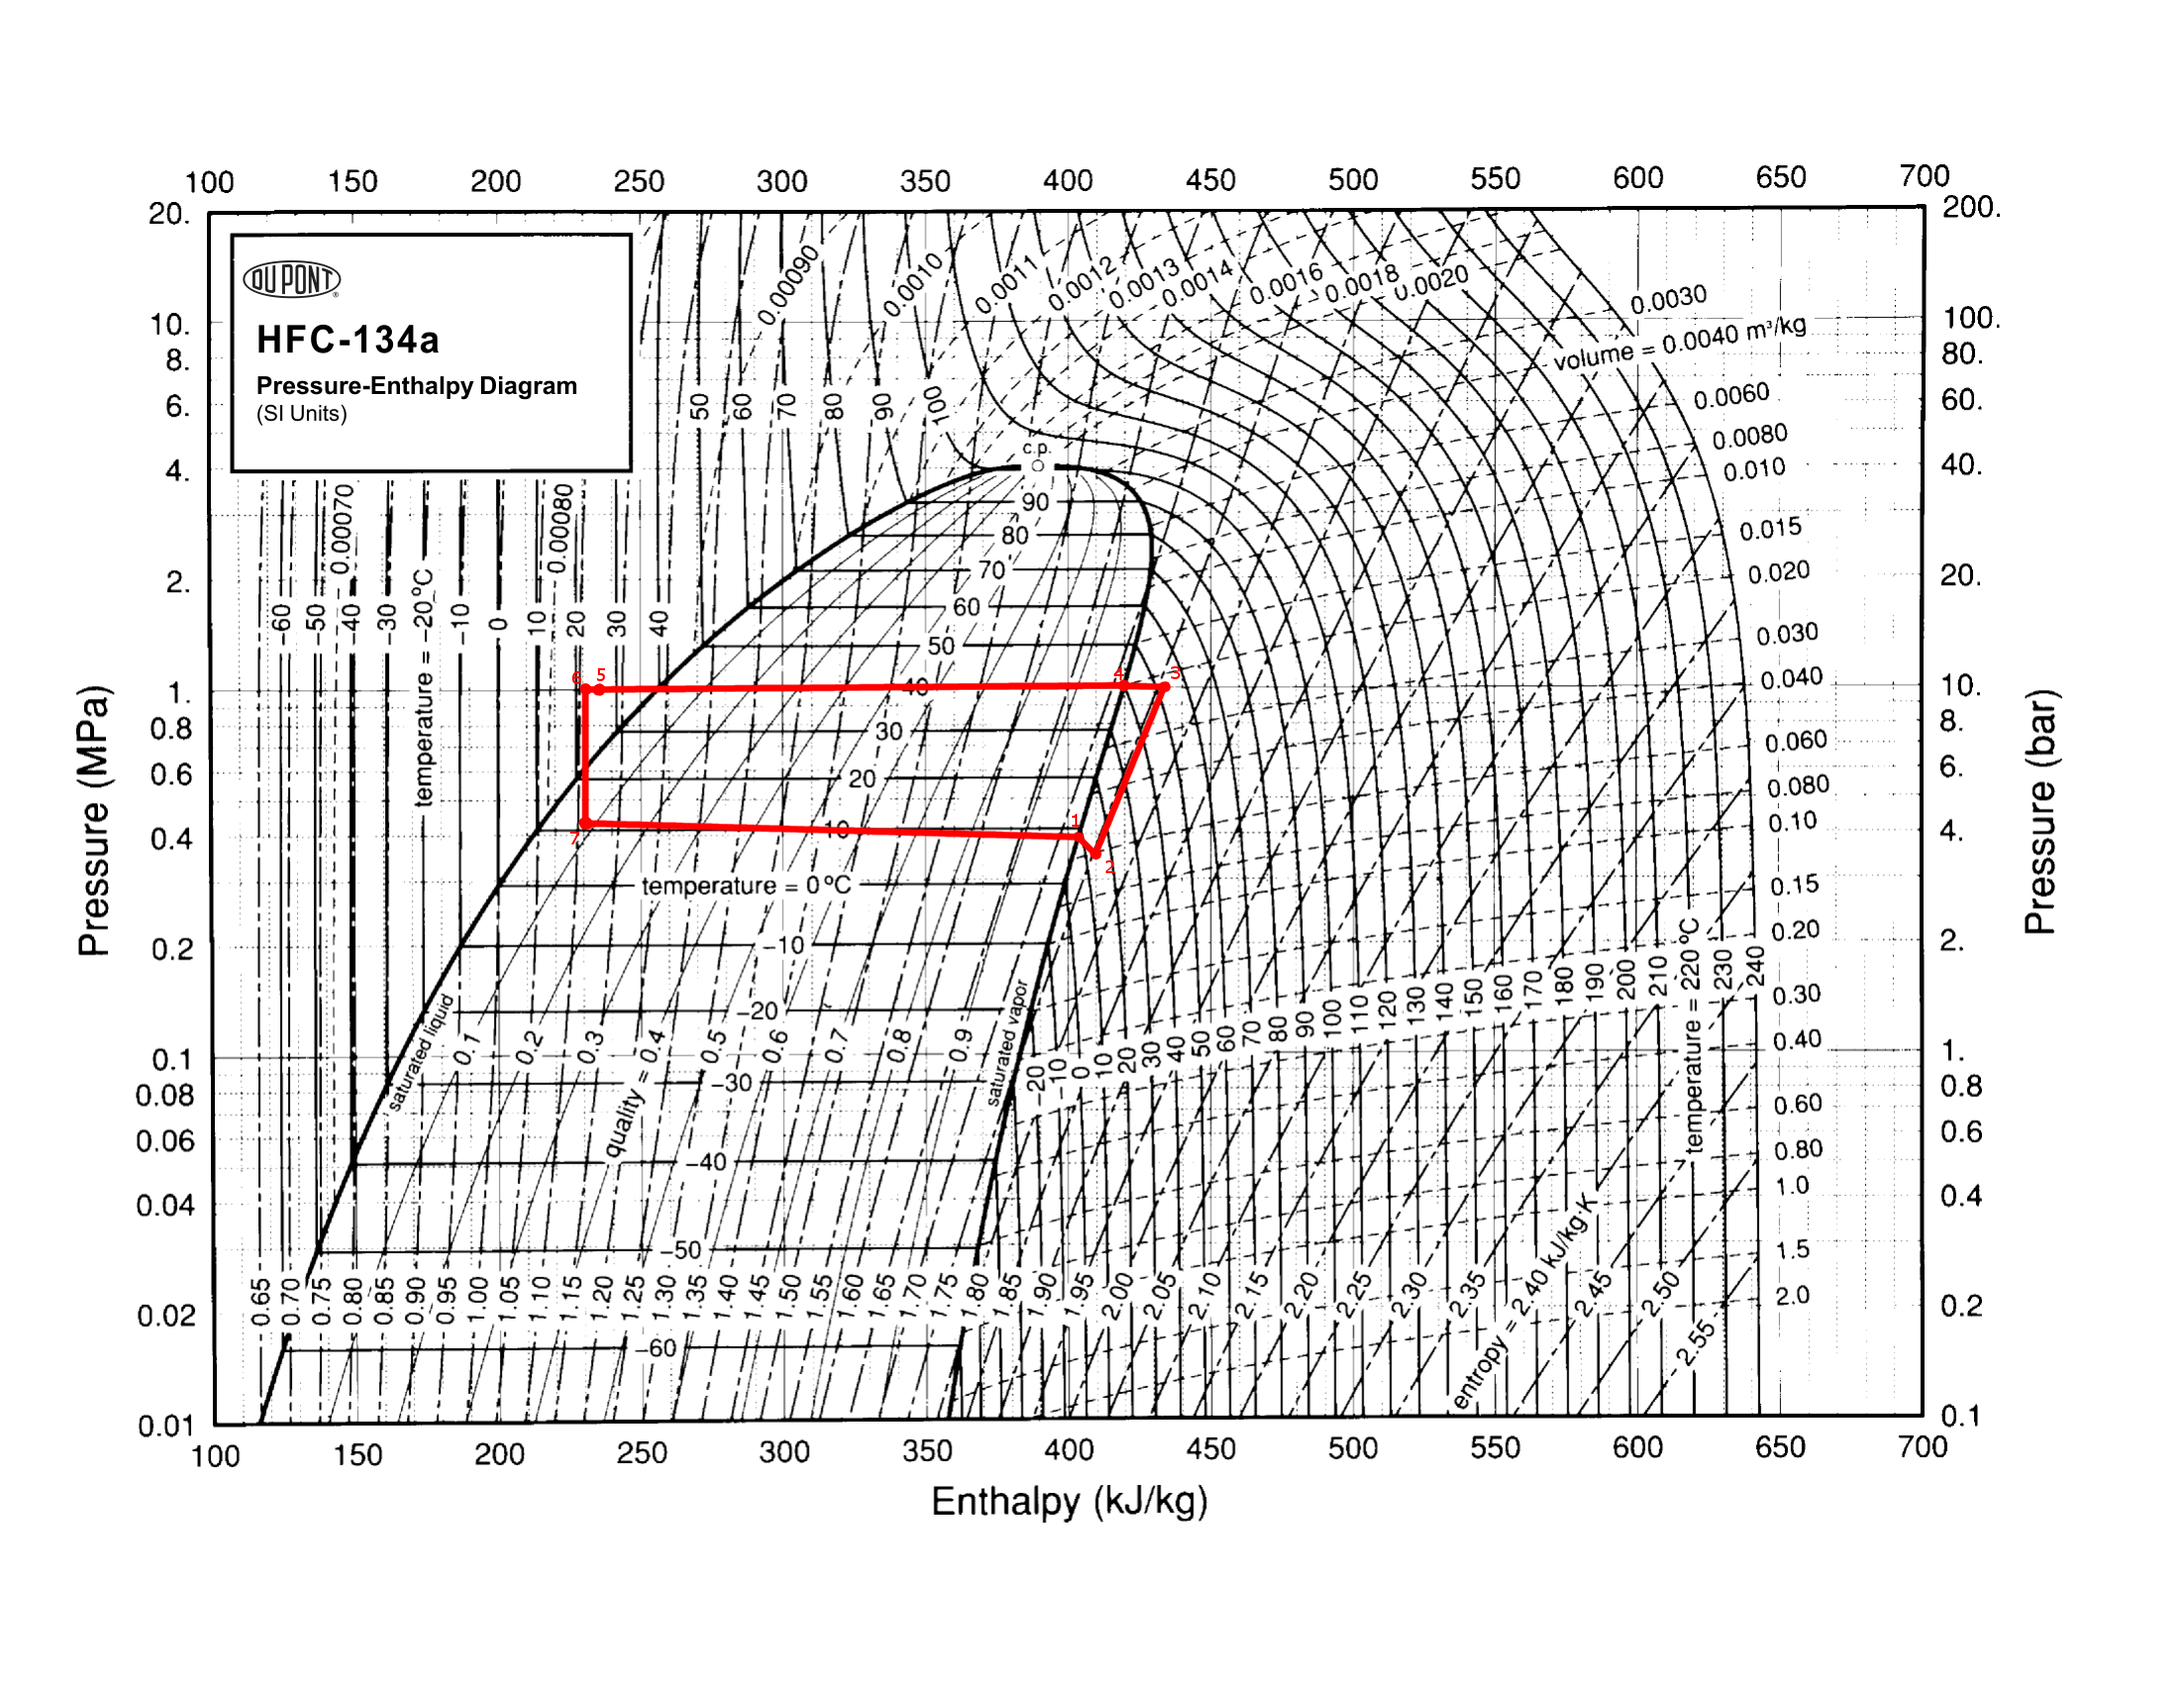
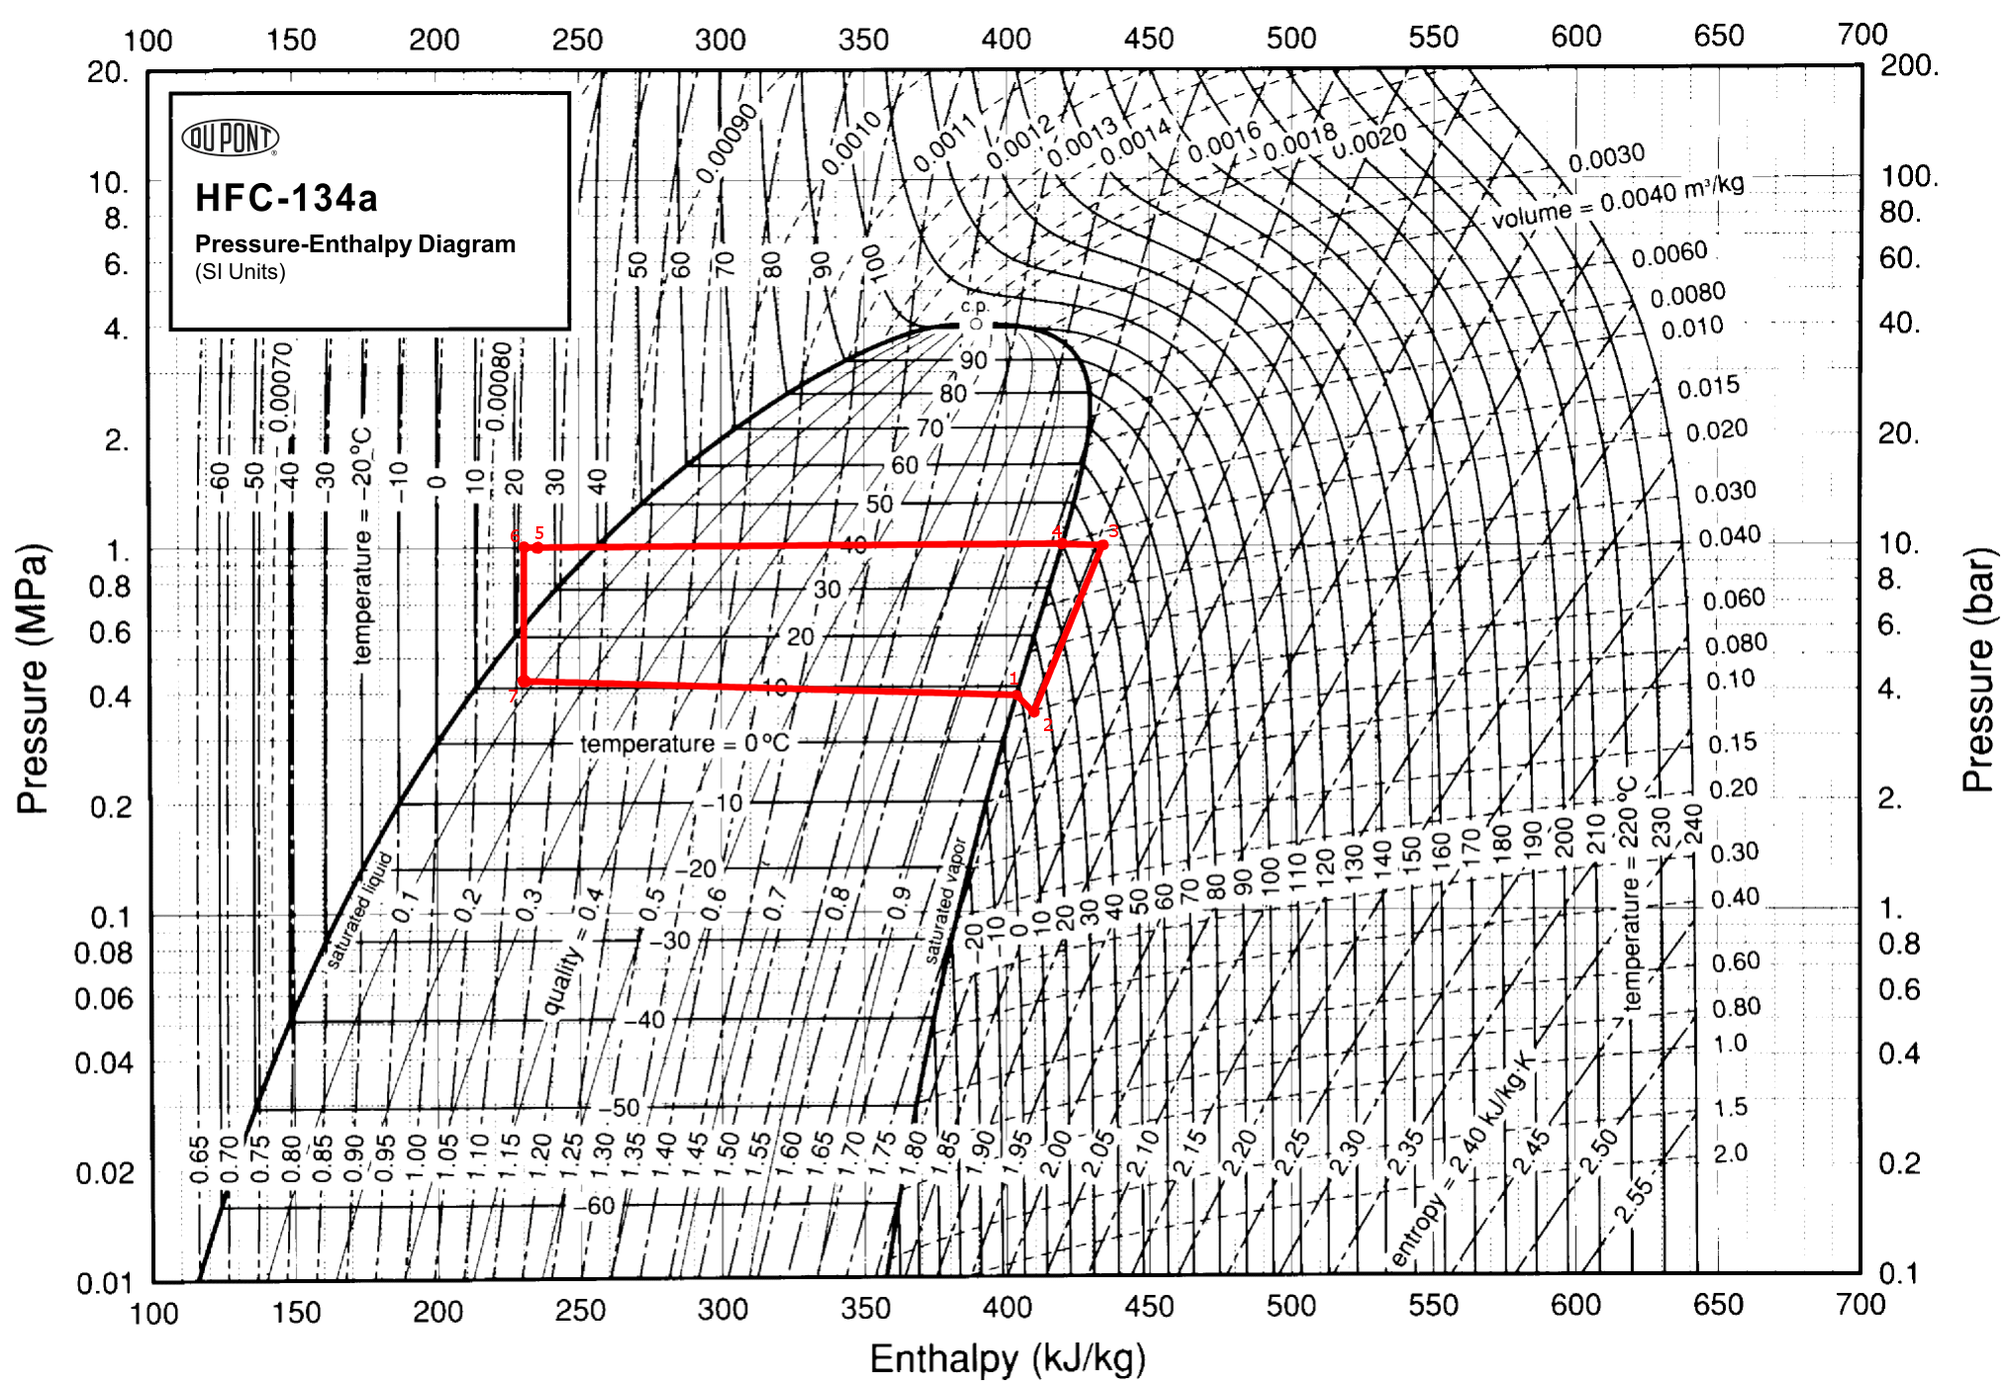
Finished second practice

Changed region(s): [[0.0, 0.0, 0.9936, 1.0], [0.8383, 0.0, 0.9625, 0.0613]]

diff --git a/Practica_4/Practica_4.tex b/Practica_4/Practica_4.tex
@@ -1,15 +1,18 @@
 \documentclass[a4paper]{article}
 
-\usepackage[catalan]{babel} % Language 
-\usepackage{fontspec}
-\usepackage[margin=2cm]{geometry}
-\usepackage{float}
-\usepackage{pgfplots}
-\usepackage{pgfplotstable}
-\usepackage[hidelinks]{hyperref}
-\usepackage{enumitem}
-\usepackage{amsmath}
-\usepackage{gensymb} % For the degree symbol
+\usepackage[margin=2cm]{geometry}	% For smaller margins
+\usepackage[catalan]{babel} 		% Catalan language 
+\usepackage{fontspec}				% utf-8 support
+
+\usepackage{amsmath}				% Math symbols
+\usepackage{float}					% Better positioning 
+\usepackage[hidelinks]{hyperref}	% To hide some links
+\usepackage{pgfplots}				% Useful to plot data tables
+\usepackage{enumitem}				% To use resume in enumerate
+\usepackage{multirow}				% Multirow
+\usepackage{gensymb} 				% For the degree symbol
+\usepackage{graphicx}				% To include images
+\usepackage{array}					% To alter column specification
 
 \pgfplotsset{compat=1.13}
 
@@ -47,32 +50,37 @@
 	\item \textbf{Diagrama \emph{P-h} del cicle representat}
 \end{enumerate}
 
+\begin{figure}[H]
+	\centering
+	\includegraphics[width=\textwidth]{imatges/grafic-p-h.png}
+\end{figure}
+
 \begin{enumerate}[resume]
 	\item \textbf{Les taules anteriorment citades en l'apartat de presa de dades amb els valors obtinguts experimentalment (que es troben també al full de resultats).}
 \end{enumerate}
 
 \begin{table}[H]
 	\centering
-	\begin{tabular}{l|rrr}
+	\begin{tabular}{l|>{\raggedleft}p{2cm}>{\raggedleft}p{1.5cm}r}
 		Refrigerant & Pressió manomètrica (bar) & Pressió absoluta (bar) & Temperatura (ºC) \\
 		\hline
-		Sortida evaporador (1) & & & \\
-		Entrada compressor (2) & & & \\
-		Sortida compressor (3) & & & \\
-		Entrada condensador (4) & & & \\
-		Sortida condensador (5) & & & \\
-		Entrada vàlvula (6) & & & \\
-		Entrada evaporador (7) & & & \\
+		Sortida evaporador (1)  & 3,0 &  4,0 & Vapor Saturat \\
+		Entrada compressor (2)  & 2,7 &  3,7 & 10,9 \\
+		Sortida compressor (3)  & 9,0 & 10,0 & 52,7 \\
+		Entrada condensador (4) & 9,0 & 10,0 & Vapor Saturat \\
+		Sortida condensador (5) & 8,9 &  9,9 & 26,6 \\
+		Entrada vàlvula (6)     & 8,9 &  9,9 & 24,0 \\
+		Entrada evaporador (7)  & 3,1 &  4,1 & 11,5 \\
 	\end{tabular}
 \end{table}
 
 \begin{table}[H]
 	\centering
-	\begin{tabular}{l|r}
-		Refrigerant & Pressió manomètrica (bar) \\
+	\begin{tabular}{l|rr}
+		Refrigerant & Pressió manomètrica (bar) & Temperatura manomètrica (ºC)\\
 		\hline
-		Entrada compressor & \\
-		Sortida compressor & \\
+		Entrada compressor & 2,7 & 6 \\
+		Sortida compressor & 9,0 & 30 \\
 	\end{tabular}
 \end{table}
 
@@ -81,10 +89,10 @@
 	\begin{tabular}{l|rr}
 		Aigua & Cabal (l/h) & Temperatura (ºC) \\
 		\hline
-		Entrada evaporador & & \\
-		Sortida evaporador & & \\
-		Entrada condensador & & \\
-		Sortida condensador & & \\
+		Entrada evaporador  & \multirow{2}{*}{110} & 23,3 \\
+		Sortida evaporador  &                      & 9,0 \\
+		Entrada condensador & \multirow{2}{*}{145} & 22,7 \\
+		Sortida condensador &                      & 35 \\
 	\end{tabular}
 \end{table}
 
@@ -95,16 +103,17 @@
 \begin{table}[H]
 	\centering
 	\begin{tabular}{rl|r}
-		1 & Potència calorífica (costat aigua) en W & \\
-		2 & Potència frigorífica (costat aigua) en W & \\
-		3 & Diferència dels dos valors anteriors en W & \\
-		4 & Potència elèctrica del vatímetre en W & \\
-		5 & Temperatura condensació (del manòmetre) ºC & \\
-		6 & Temperatura evaporació (del manòmetre) ºC & \\
-		7 & Pot Frigorífica del fabricant (taules) en W & \\
-		8 & Pot elèctrica del fabricant (taules) en W & \\
-		9 & COP calculat com (valor 2) / (valor 4) & \\
-		10 & COP calculat com (valor 7) / (valor 8) & \\
+		1  & Potència calorífica (costat aigua) en W     & 2070 \\
+		2  & Potència frigorífica (costat aigua) en W    & 1830 \\
+		3  & Diferència dels dos valors anteriors en W   &  240 \\
+		4  & Potència elèctrica del vatímetre en W       &  567 \\
+		5  & Temperatura condensació (del manòmetre) ºC  &   43,6 \\
+		6  & Temperatura evaporació (del manòmetre) ºC   &    8 \\
+		7  & Pot Frigorífica del fabricant (taules) en W & 1993,7 \\
+		8  & Pot elèctrica del fabricant (taules) en W   &  579,7 \\
+		9  & COP calculat com (valor 2) / (valor 4)      &    3,23 \\
+		10 & COP calculat com (valor 7) / (valor 8)      &    3,44 \\
+		11 & Pèrdua de calor al compressor en W          &  327,7 \\
 	\end{tabular}
 \end{table}
 
@@ -112,6 +121,9 @@
 	\item \textbf{Un comentari o anàlisi sobre els resultats obtinguts i la coherència dels càlculs efectuats}
 \end{enumerate}
 
+Com es pot observar hi ha una diferència entre el COP del fabricant i el COP mesurat. El mesurat és relativament inferior al que hauria de ser. Aquesta diferència és proporcional a la de potència frigorífica entre el fabricant i la mesurada. Això pot ser degut pèrdues en la insta\l.lació que el fabricant no va considerar ja que depèn de cada insta\l.lació o a que el termòmetre no es troba suficientment a prop de la zona de compressió. Tot i així, el valor es troba relativament a prop del valor del fabricant com per no considerar-ho un problema. 
+
+Cal destacar també que a la sortida del compressor la temperatura real difereix força de la temperatura manomètrica (22,7ºC). Això és degut a que el manòmetre considera només la zona de saturació però en canvi el compressor surt de la zona de saturació al incrementar la pressió, ja que altrament es podria fer malbé.
 
 
 
